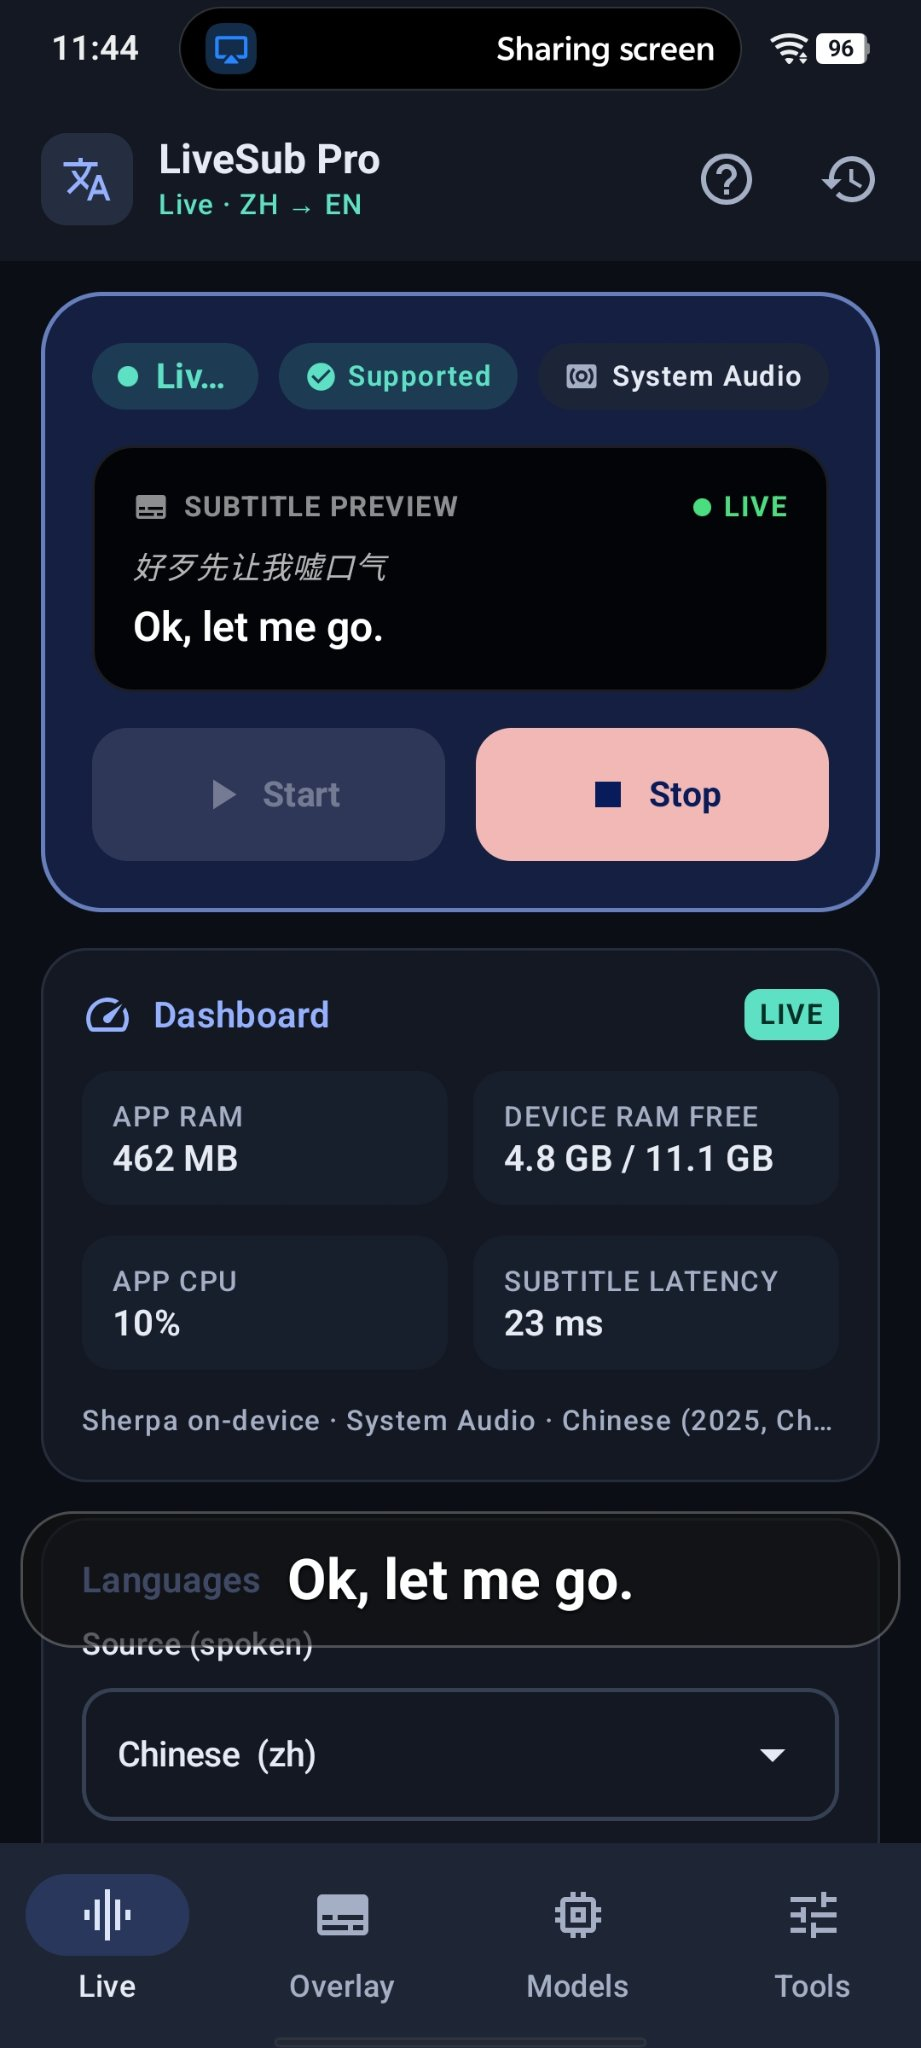
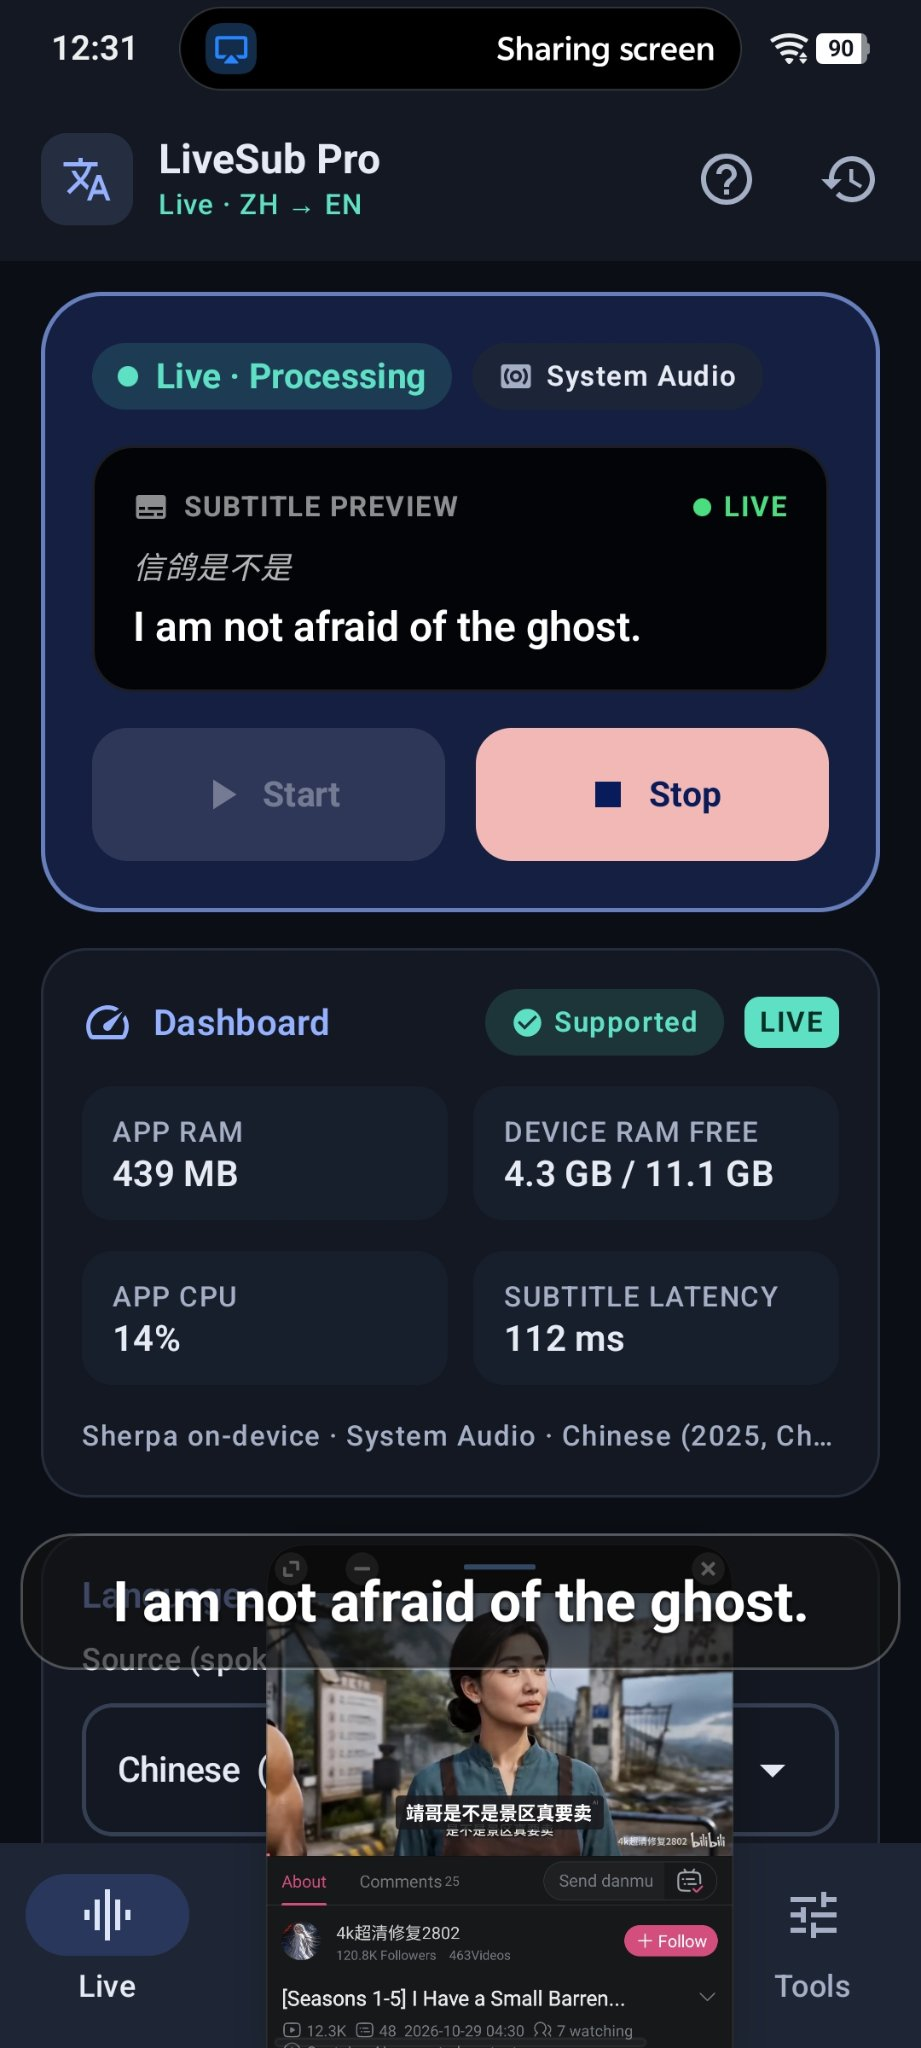
Update README

diff --git a/README.md b/README.md
@@ -1,14 +1,18 @@
 # LiveSub Pro
 
-**Real-time offline speech recognition, neural translation, and cinema-grade floating subtitles for Android.**
+Live subtitles for Android. Watch a video, drama, lecture or stream in another language and read it in yours, in a floating box over any app.
 
 Modified and engineered by **[SiAM](https://github.com/siam38)**, based on [LiveCaptionN](https://github.com/chartmann1590/LiveTranscribe-Android) by [Charles Hartmann](https://github.com/chartmann1590).
 
 [![Latest release](https://img.shields.io/github/v/release/siam38/LiveSub-Pro?color=2546d0)](https://github.com/siam38/LiveSub-Pro/releases/latest)
+[![Build](https://img.shields.io/github/actions/workflow/status/siam38/LiveSub-Pro/build.yml?label=build&color=2ea44f)](https://github.com/siam38/LiveSub-Pro/actions/workflows/build.yml)
 [![License](https://img.shields.io/github/license/siam38/LiveSub-Pro?color=6366f1)](LICENSE)
 [![Platform](https://img.shields.io/badge/platform-Android%208.0%2B%20(System%20Audio%2010%2B)-131822)](#requirements)
+[![Kotlin](https://img.shields.io/github/languages/top/siam38/LiveSub-Pro?color=7f52ff)](https://github.com/siam38/LiveSub-Pro)
+[![Sherpa-ONNX](https://img.shields.io/badge/Sherpa--ONNX-2.0.1-0f766e)](https://github.com/k2-fsa/sherpa-onnx)
+[![APK size](https://img.shields.io/badge/APK-~128%20MB-334155)](https://github.com/siam38/LiveSub-Pro/releases/latest)
 
-Watch a drama, lecture, video, or live stream in another language and get real-time floating subtitles over any app. Speech is conditioned and recognized **on your device** with [Sherpa-ONNX](https://github.com/k2-fsa/sherpa-onnx) streaming models, translated on-device with Google ML Kit, and presented in a responsive subtitle dock — with no account, no subscription, and no ads.
+Speech is conditioned and recognized **on your device** with [Sherpa-ONNX](https://github.com/k2-fsa/sherpa-onnx) streaming models, translated on-device with Google ML Kit, and presented in a responsive subtitle dock — with no account, no subscription, and no ads.
 
 ---
 
@@ -20,6 +24,7 @@ Watch a drama, lecture, video, or live stream in another language and get real-t
 - **In-App Model Manager with Resume & Cancel** — Download only the language packs you need from HuggingFace with HTTP Range resumption, free-space verification, live MB progress, download cancellation, and one-tap deletion.
 - **On-Device Neural Translation** — Powered by Google ML Kit (~59 languages, fully offline after a one-time ~30 MB model download, including automatic Cantonese `yue → zh` normalization) or your own self-hosted LibreTranslate server.
 - **Studio Workspace UI** — Organized into 4 focused tabs (**Live**, **Overlay**, **Models**, **Tools**) with an interactive live overlay style preview, named presets, pre/post translation glossary with case-sensitivity, and searchable history with `.txt`, `.srt`, and `.json` export.
+- **Live Dashboard & In-Box Stats** — A dashboard on the Live tab shows App RAM, free device RAM, App CPU and overall subtitle latency live, next to a Supported / Limited / Unsupported device mark. Tap the floating box while you watch and the same stats run in a small line under its controls: latency, CPU, RAM and free memory, fitted inside the box.
 - **Properly Fast** — Transcription and translation run fully on-device, so a finished line is translated and on screen in well under a second. The latency number in the dashboard (and in the floating box when you tap it) is the honest end-to-end one: from the end of the spoken line to the translated subtitle showing.
 
 ---
@@ -28,8 +33,13 @@ Watch a drama, lecture, video, or live stream in another language and get real-t
 
 | Live | Overlay | Models |
 | :---: | :---: | :---: |
-| <img src="docs/screenshots/live.jpg" width="250" alt="Live tab"> | <img src="docs/screenshots/overlay.jpg" width="250" alt="Overlay tab"> | <img src="docs/screenshots/models.jpg" width="250" alt="Models tab"> |
-| Start/stop, subtitle preview and a live dashboard (RAM, CPU, latency). The floating subtitle on top is the overlay doing its job. | Text size, opacity, themes and fonts for the floating subtitles, with a live preview. | System Audio or Mic, Sherpa on-device or Remote — and you only download the language models you actually need. |
+| <img src="docs/screenshots/live.jpg" width="250" alt="Live tab"> | <img src="docs/screenshots/overlay.jpg" width="170" alt="Overlay tab"> | <img src="docs/screenshots/models.jpg" width="250" alt="Models tab"> |
+| Start/stop, subtitle preview and a live dashboard (RAM, CPU, latency). The latency in this shot is 112 ms, the overall time from the end of the spoken line to the translated subtitle on screen. The floating subtitle on top is the overlay doing its job. | Text size, opacity, themes and fonts for the floating subtitles, with a live preview. | System Audio or Mic, Sherpa on-device or Remote — and you only download the language models you actually need. |
+
+| Subtitles only | Tap for controls and stats |
+| :---: | :---: |
+| <img src="docs/screenshots/video-subtitles.jpg" width="100%" alt="Floating subtitle over a video"> | <img src="docs/screenshots/video-controls.jpg" width="100%" alt="Floating box controls and stats"> |
+| Left alone, the box is just the translated line over your video. Nothing else on screen. | Tap the box and the controls appear: language pair, pause, minimise and close. Under them runs a small live stats line with latency (77 ms in this shot), CPU, app RAM and free device memory. |
 
 ---
 
@@ -74,8 +84,6 @@ CaptionForegroundService (Pre/Post Glossary + Same-language fast path + Clause p
   └──► TranscriptHistoryStore (Local JSON store with .txt / .srt / .json export)
 ```
 
-For a comprehensive engineering breakdown of the system architecture and audit findings, see [AUDIT.md](AUDIT.md).
-
 ---
 
 ## Requirements
@@ -85,23 +93,29 @@ For a comprehensive engineering breakdown of the system architecture and audit f
 
 ---
 
-## Building via GitHub Actions
+## Install
 
-All compilation, unit testing, and APK generation run automatically in GitHub Actions (`.github/workflows/build.yml`). On every push or manual `workflow_dispatch`:
-1. Fetches the `sherpa-onnx-2.0.1.aar` runtime, Gradle wrapper jar, and tutorial video.
-2. Runs the full unit test suite (`./gradlew testGithubDebugUnitTest`) and uploads test report artifacts.
-3. Builds and signs the installable debug APK (`./gradlew assembleGithubDebug`) and uploads `LiveSub-Pro-v1.0.<run_number>.apk` as a workflow artifact.
+1. Download the latest APK from [Releases](https://github.com/siam38/LiveSub-Pro/releases/latest).
+2. Open the file and allow install when Android asks. No account or sign-up is needed.
+3. Open LiveSub Pro and follow the short first-run setup: permissions, your languages, then your speech model download.
+4. Pick System Audio, tap Start, allow screen capture, and play your video.
 
-To verify all HuggingFace model URLs in the catalog:
-```bash
-python tools/check_model_links.py
-```
+New versions install over the old one, so your downloaded model and your settings are kept.
+
+---
+
+## Contributors
+
+- **[SiAM](https://github.com/siam38)** — Modified and engineered LiveSub Pro: the redesign, on-device Sherpa engine, dashboard, floating box and current feature set.
+- **[Charles Hartmann](https://github.com/chartmann1590)** — Author of the original LiveCaptionN app this project is based on.
+
+Bug reports and ideas are welcome through [Issues](https://github.com/siam38/LiveSub-Pro/issues), and pull requests are welcome too.
 
 ---
 
 ## Credits & License
 
-- Engineered and redesigned by **[SiAM](https://github.com/siam38)**.
+- Modified and engineered by **[SiAM](https://github.com/siam38)**.
 - Based on [LiveCaptionN / LiveTranscribe-Android](https://github.com/chartmann1590/LiveTranscribe-Android) by **[Charles Hartmann (chartmann1590)](https://github.com/chartmann1590)**.
 - Speech recognition runtime and models by [k2-fsa / sherpa-onnx](https://github.com/k2-fsa/sherpa-onnx).
 - Licensed under the [MIT License](LICENSE).
